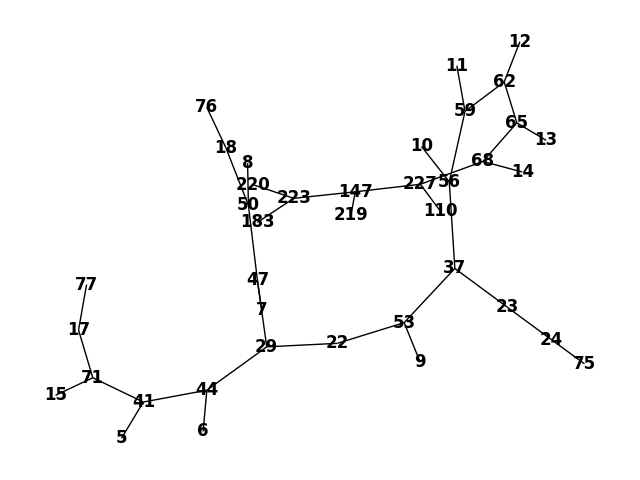
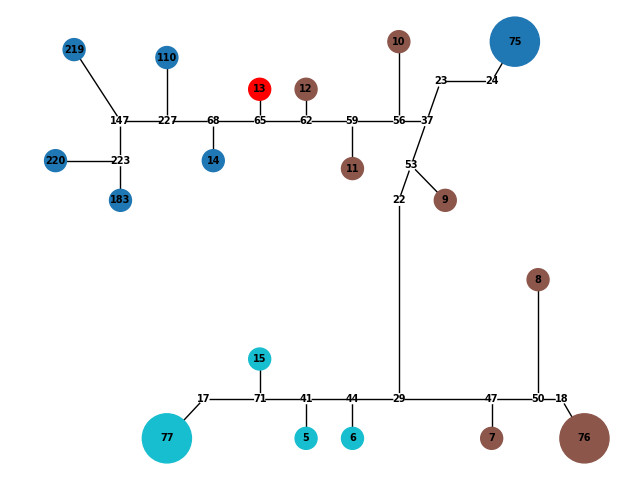
graph coordinate specific

diff --git a/app/minimization_problem/optimize_source.py b/app/minimization_problem/optimize_source.py
@@ -1,7 +1,7 @@
 import pulp
 import networkx as nx
 
-def find_optimal_source(G,consumers,sources):
+def find_optimal_source(G,sources,consumers):
     heating_demand = {c: G.nodes[c]['heating_demand'] for c in consumers}
 
     # Get source capacities from their heating_demand field
@@ -13,7 +13,7 @@ def find_optimal_source(G,consumers,sources):
 
     total_demand = sum(heating_demand.values())
     total_capacity = sum(capacities.values())
-    # print("Total Consumer demand:", total_demand, "\nTotal Source capacity:", total_capacity)
+    print("Total Consumer demand:", total_demand, "\nTotal Source capacity:", total_capacity)
 
     # Build the distance matrix using shortest paths in the graph
     distance = {}
@@ -25,41 +25,28 @@ def find_optimal_source(G,consumers,sources):
             else:
                 print(f"No path from source {s} to consumer {c}")
 
-    # print()
-    # print(distance)
-    
-
-     # Optimization model
+    # Optimization model
     prob = pulp.LpProblem("Heat_Network_MinCostFlow", pulp.LpMinimize)
 
     # Decision variables: fraction of consumer demand supplied by source
     x = pulp.LpVariable.dicts("assign", (sources, consumers), lowBound=0, upBound=1, cat='Continuous')
 
+
     # Objective function: Minimize sum of demand * distance * fraction
-    prob += pulp.lpSum(x[s][c] * heating_demand[c] * distance[(s, c)] 
+    prob += pulp.lpSum(x[s][c] * heating_demand[c] * (distance[(s, c)] ** 2)
                        for s in sources for c in consumers if (s, c) in distance)
 
     # Each consumer must be fully satisfied
+
     for c in consumers:
-        prob += pulp.lpSum(x[s][c] for s in sources if (s, c) in distance) == 1.00
+        prob +=  pulp.lpSum(x[s][c] for s in sources if (s, c) in distance) == 1.00
 
     
 
     # Each source must not exceed its capacity
     for s in sources:
-        prob += pulp.lpSum(x[s][c] * heating_demand[c] for c in consumers if (s, c) in distance) <= capacities[s]
+        prob +=  pulp.lpSum(x[s][c] * heating_demand[c] for c in consumers if (s, c) in distance) <= capacities[s]
 
-    # Choose solver
-    # if solver_name == "CBC":
-    #     solver = pulp.PULP_CBC_CMD(msg=True)
-    # elif solver_name == "GLPK":
-    #     solver = pulp.GLPK_CMD(msg=True)
-    # elif solver_name == "GUROBI":
-    #     solver = pulp.GUROBI_CMD(msg=True)
-    # elif solver_name == "CPLEX":
-    #     solver = pulp.CPLEX_CMD(msg=True)
-    # else:
-    #     raise ValueError(f"Unsupported solver: {solver_name}")
 
     # Solve
     prob.solve()
@@ -67,21 +54,17 @@ def find_optimal_source(G,consumers,sources):
     # Results
     print("\nAssignments:")
     assignments={}
+    for c in consumers:
+        assignments[c]={}
+
     for s in sources:
-        assignments[s] = {}
         for c in consumers:
             if (s, c) in distance:
                 val = x[s][c].varValue
                 if val > 0:
-                    print(f"{s} supplies {val * heating_demand[c]:.1f} to {c} ({val*100:.1f}%) consumer={heating_demand[c]}, source={capacities[s]}")
+                    print(f"{s} supplies {val * heating_demand[c]:.1f} to {c} ({val*100:.1f}%) consumer={heating_demand[c]}, source={capacities[s]}  distance= {distance[(s,c)]} ")
 
-                    # assignments[c][s] = {
-                    #     "fraction": round(val, 4),
-                    #     "percentage": round(val * 100, 1),
-                    #     "amount": round(val * heating_demand[c], 2)
-                    # }
-                    # if c not in assignments[s]:
-                    assignments[s][c]= {
+                    assignments[c][s]={
                         "fraction": round(val, 4),
                         "percentage": round(val * 100, 1),
                         "amount": round(val * heating_demand[c], 2)
@@ -90,4 +73,5 @@ def find_optimal_source(G,consumers,sources):
 
     print("Status:", pulp.LpStatus[prob.status])
 
+    print(distance)
     return pulp.LpStatus[prob.status], pulp.value(prob.objective),assignments

diff --git a/app/plotting_graph/color_code_node.py b/app/plotting_graph/color_code_node.py
@@ -1,32 +1,60 @@
 import matplotlib.pyplot as plt
 import networkx as nx
-def color_nodes_based_on_assignment(assignments, G):
+import matplotlib.cm as cm
+
+
+def color_nodes_based_on_assignment(assignments, G, sources,pos):
     # Create a color map based on the assignments
     node_sizes = []
     node_colors = []
-    print("d" ,G.nodes(data=True))
+    colormap = cm.get_cmap(
+        "tab10", len(sources)
+    )  # We can change 'tab10' to other colormaps
+
+    source_to_color = {}
+    for i, src_id in enumerate(sources):
+        source_to_color[str(src_id)] = colormap(i)
     for node in G.nodes:
-        # if node in assignments:
-        #     color = 'green'  # Nodes with assignments will be green (i.e., consumers or sources involved in the assignment)
-        # else:
-        #     color = 'red'    # Nodes not involved in any assignment can be red (optional)
-        # node_colors.append(color)
-        
+
         node_data = G.nodes[node]
 
         # Size scale
-        if node_data.get("type") == "mixer":
-            size = 100  # very small
-        elif node_data.get("type")  == "Source":
-            size = 10000  # very large
+        if node_data.get("type") == "Mixer":
+            size = 1  # very small
+            color = (1, 1, 1)
+        elif node_data.get("type") == "Source":
+            # color=(0,0,node*100)
+            color = source_to_color.get(str(node), (0.5, 0.5, 0.5))
+            size = 25  # very large
         else:
-            size = 500  # medium
-        node_sizes.append(size * 100)
-    # Draw the graph
-    pos = nx.spring_layout(G)  # You can adjust the layout as needed
-    nx.draw(G, pos, with_labels=True, node_color=node_colors, font_weight='bold', node_size=node_sizes)
-    plt.show()
-    # Save the plot as an image file
-    plt.savefig('network_plot.png')  # Save as PNG (you can change the file extension to PDF, SVG, etc.)
-    plt.close()
+            size = 5  # medium
+            print(node, len(assignments[node]), assignments[node])
+            if len(assignments[node]) > 1:
+                color = (1, 0, 0)
+            else:
+                # color=(0,0,list(assignments[node].keys())[0]*100)
+                source_id = list(assignments[node].keys())[0]
+                color = source_to_color.get(str(source_id), (0.5, 0.5, 0.5))
+        # node_sizes.append(size * 100)
+        # print("\t",node_data.get("type"), size)
 
+        node_sizes.append(size * 50)
+        node_colors.append(color)
+    # Draw the graph
+    # pos = nx.spring_layout(G)  # We can adjust the layout as needed
+    nx.draw(
+        G,
+        pos,
+        with_labels=True,
+        font_weight="bold",
+        node_size=node_sizes,
+        node_color=node_colors,
+        font_size=7
+    )
+    # Save the plot as an image file
+    plt.savefig(
+        "network_plot.png"
+    )  # Save as PNG (you can change the file extension to PDF, SVG, etc.)
+    plt.show()
+
+    plt.close()

diff --git a/app/reading_input/create_graph.py b/app/reading_input/create_graph.py
@@ -29,6 +29,7 @@ def create_graph_from_xml(data_file_path):
     G = nx.Graph()
     consumer=[]
     source=[]
+    pos={}
     for node in root.findall(".//NetworkNode"):
         node_id = node.get("id")
         node_type = node.get("type")
@@ -48,6 +49,12 @@ def create_graph_from_xml(data_file_path):
         if node_type == "Source":
             source.append(node_id)
 
+        position_elem = node.find("Position")
+        if position_elem is not None:
+            position_text = position_elem.text.strip()
+            x_str, y_str, *_ = position_text.split()
+            x, y = float(x_str), float(y_str)
+            pos[node_id] = (x, y)
         # print("Node: ", node_id)
         # print("Type: ",node_type)
         # print("Heating Demand :", heating_demand)
@@ -74,5 +81,5 @@ def create_graph_from_xml(data_file_path):
     # for edge in list(G.edges(data=True))[:5]:
     #     print("Edge:", edge)
 
-    return G,source,consumer
+    return G,source,consumer,pos
     

diff --git a/app/core.py b/app/core.py
@@ -2,11 +2,12 @@ from app.minimization_problem.optimize_source import find_optimal_source
 from app.plotting_graph.color_code_node import color_nodes_based_on_assignment
 from app.plotting_graph.visualize_graph import visualize_heat_network
 from app.reading_input.create_graph import create_graph_from_xml
+
 def find_mass_flux(file_path, solver_name):
-    G,sources,consumers = create_graph_from_xml(file_path)
+    G,sources,consumers,pos = create_graph_from_xml(file_path)
     # print("Graph created",G.number_of_nodes(), G.number_of_edges())
     result=find_optimal_source(G,sources,consumers)
     print(result[-1])
     # visualize_heat_network(G,sources,consumers,result[-1])
 
-    color_nodes_based_on_assignment(result[-1],G)
+    color_nodes_based_on_assignment(result[-1],G,sources,pos)

diff --git a/app.py b/app.py
@@ -1,7 +1,9 @@
 from pathlib import Path
 from app.core import find_mass_flux
 def main():
-    file_path = Path(__file__).resolve().parents[0] / 'data' / 'testcase04.vicus'
+    # data/test_scenarios/enough_supply_for_all_nodes.vicus
+    # file_path = Path(__file__).resolve().parents[0] / 'data' / 'test_scenarios'/'testcase04.vicus'
+    file_path = Path(__file__).resolve().parents[0] / 'data' / 'test_scenarios'/'enough_supply_for_all_nodes.vicus'
     print(file_path)
     find_mass_flux(file_path,"GLPK")
 
